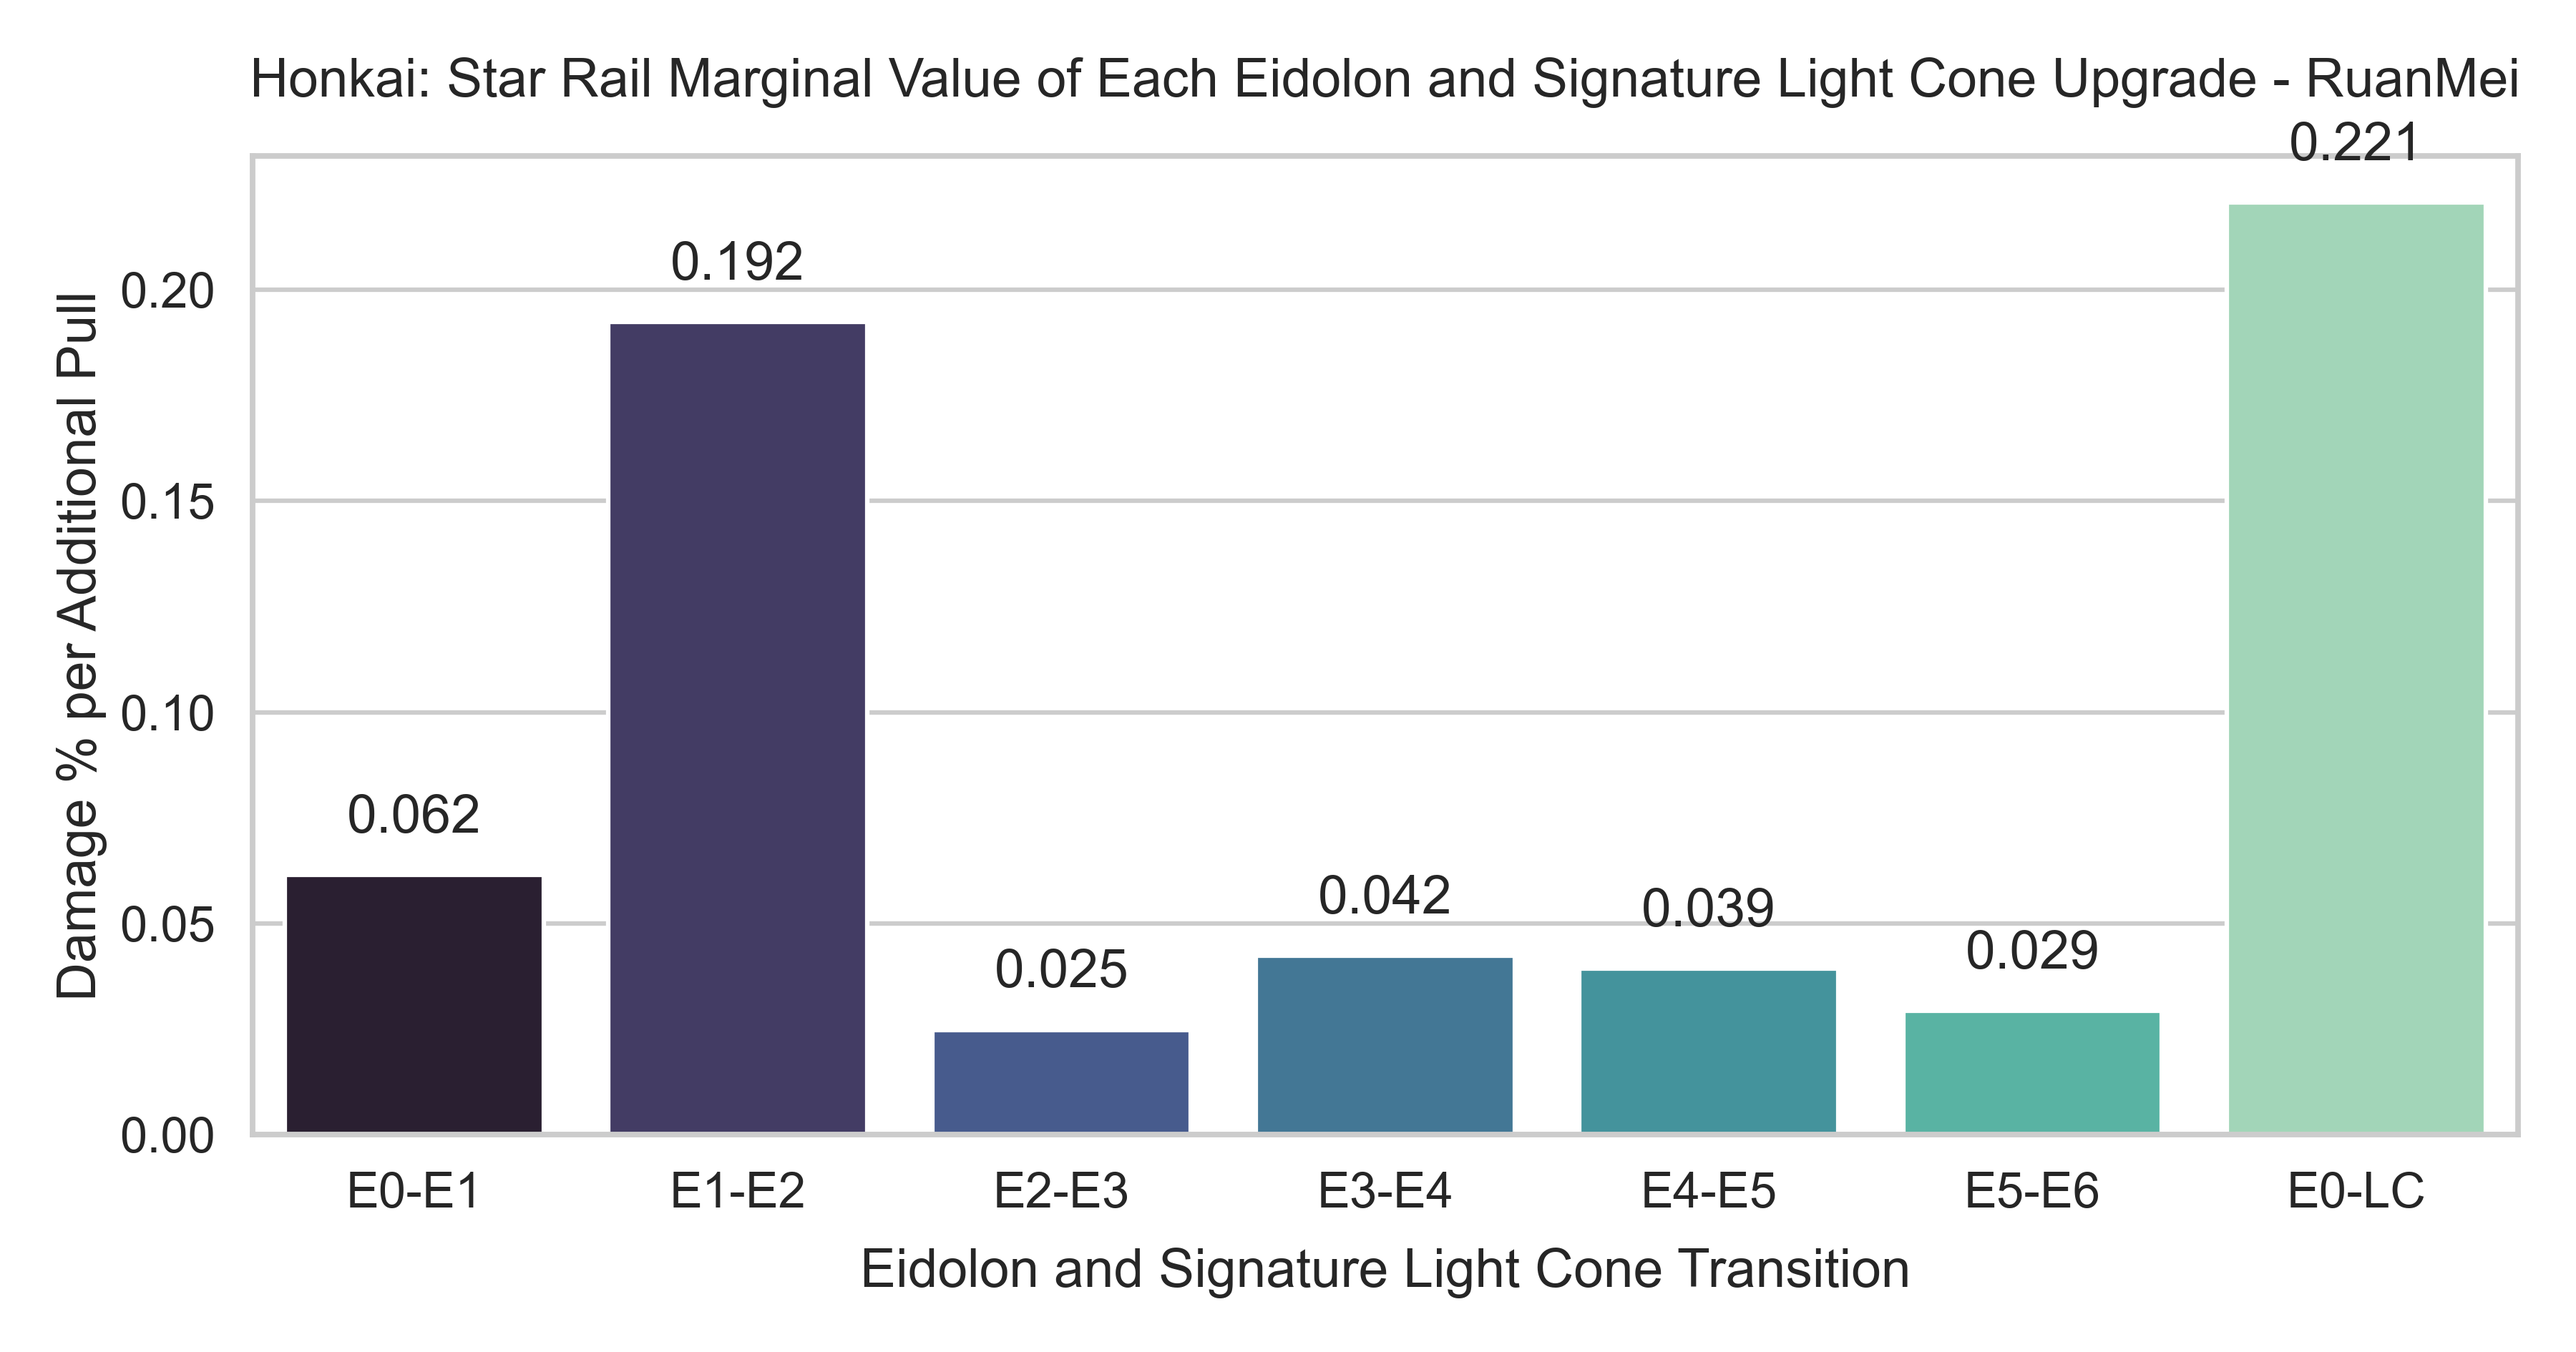
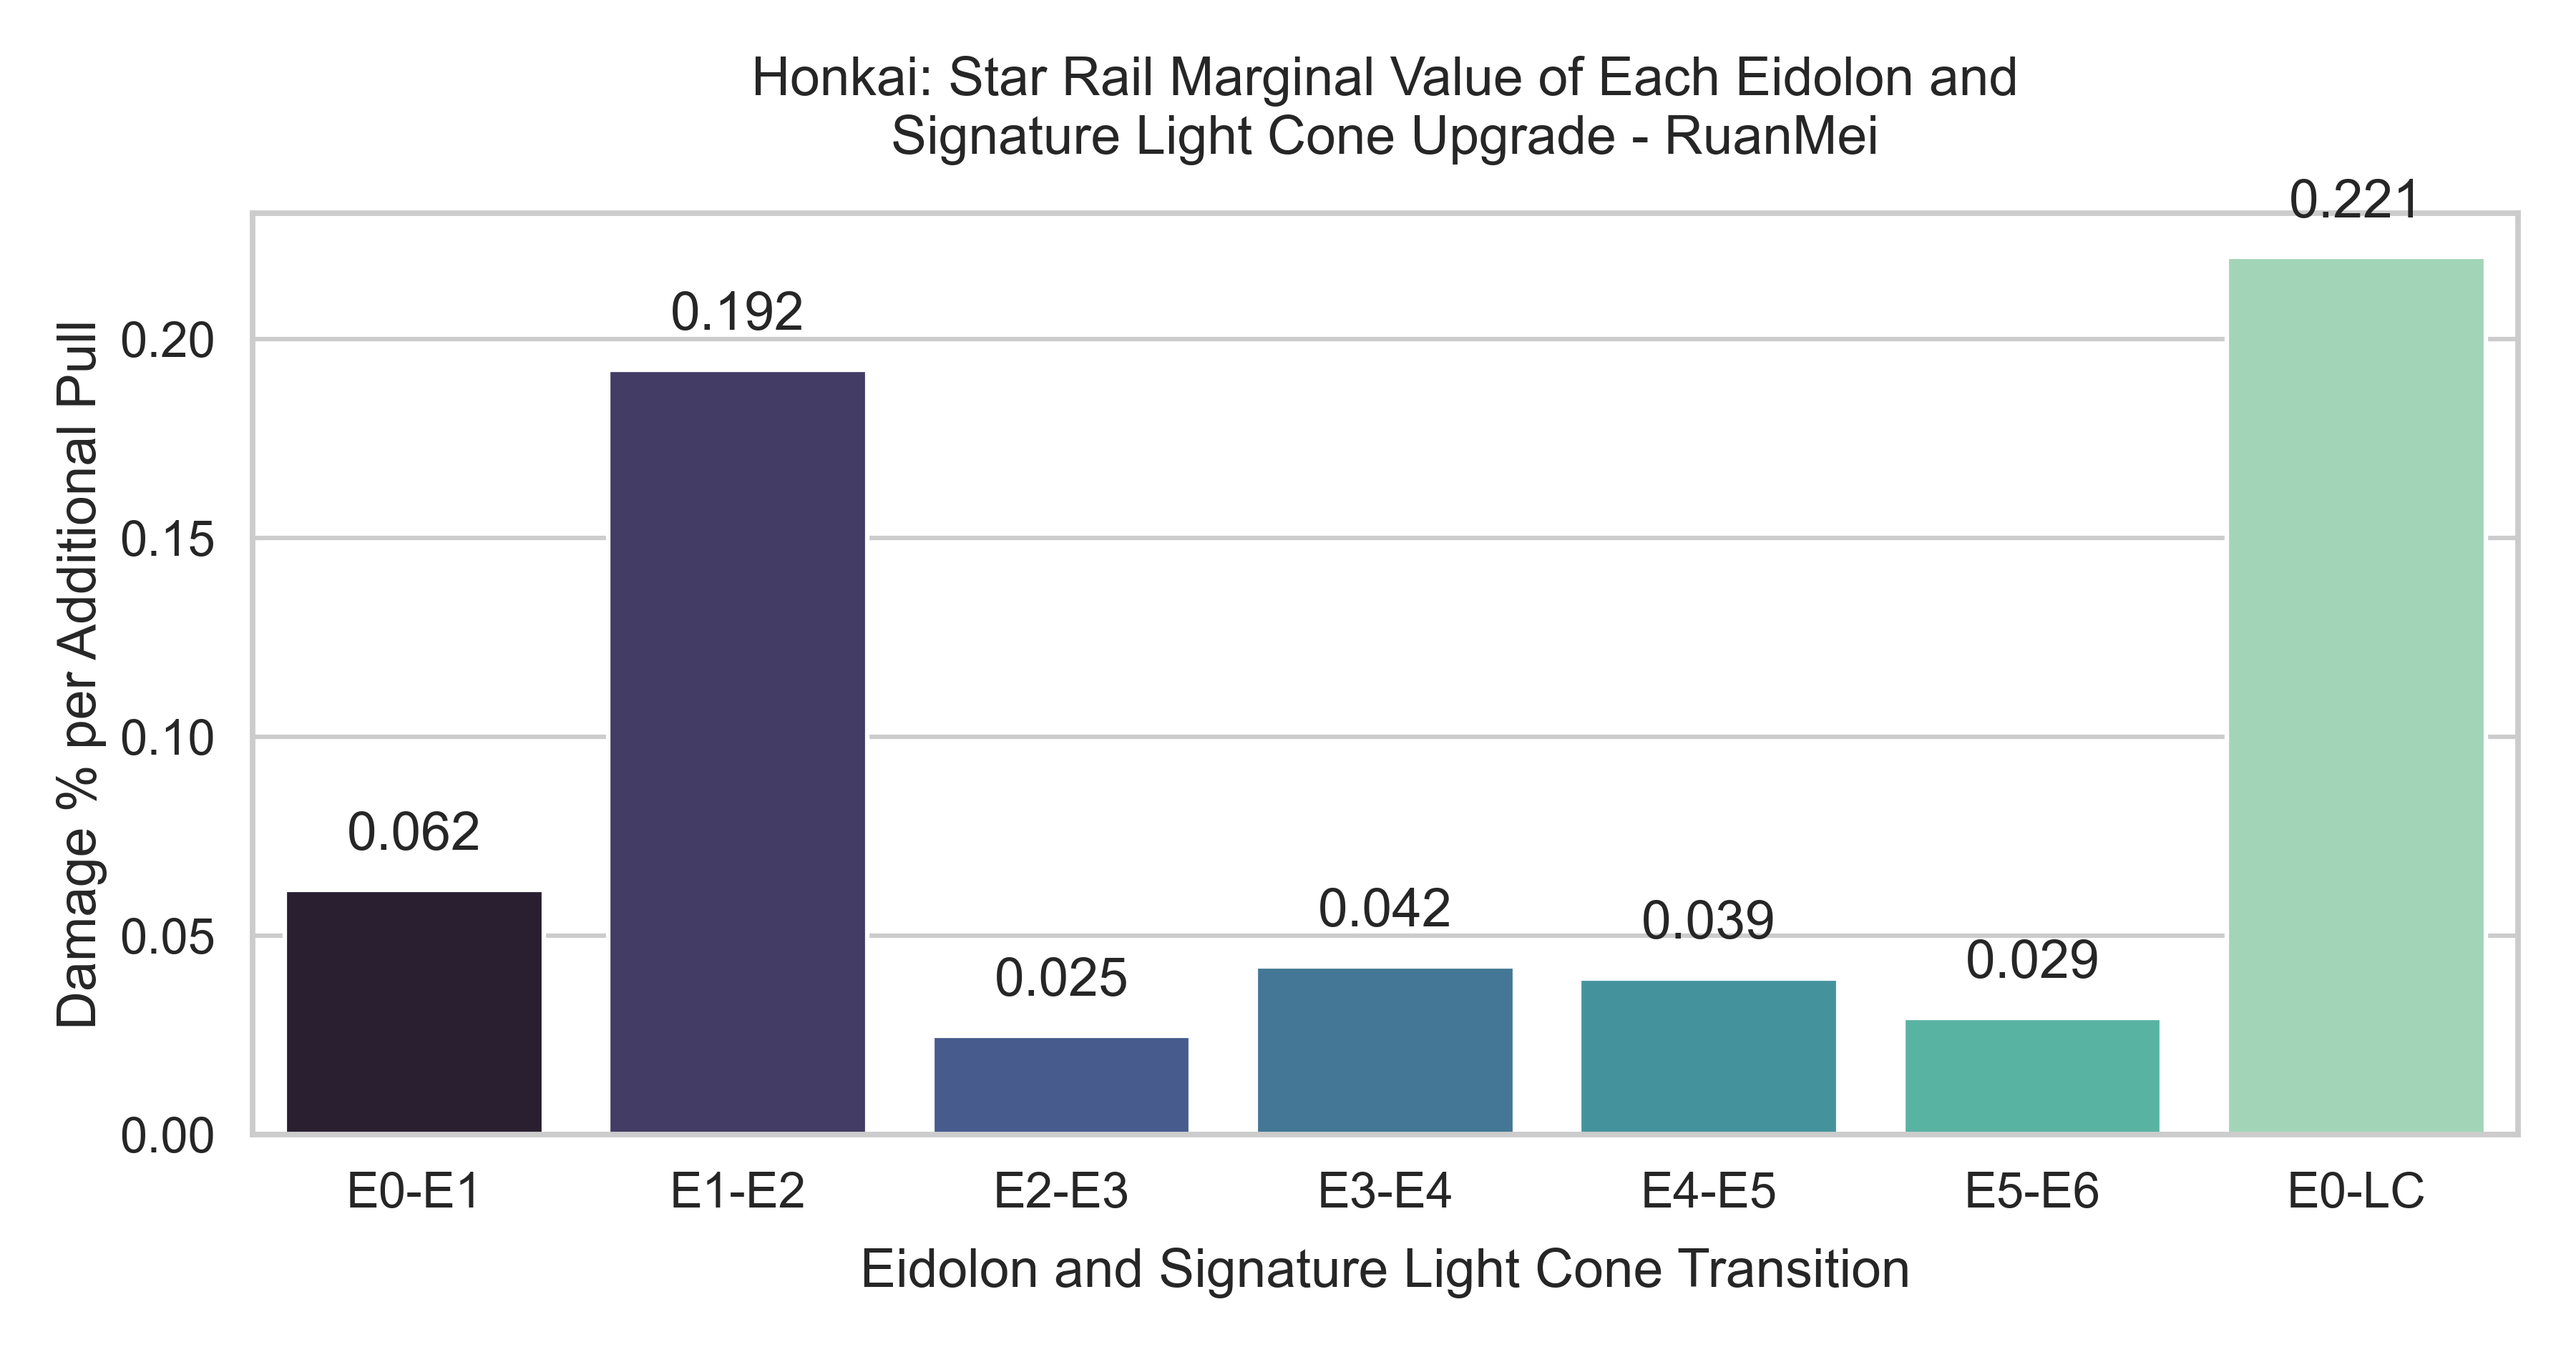
Update Ruan Mei visualizations: add dedicated character visuals documentation and improve plot title formatting for better readability.

diff --git a/calculator/plot_eidolon_value.py b/calculator/plot_eidolon_value.py
@@ -4,6 +4,7 @@ from numpy import pad
 import seaborn as sns
 import pandas as pd
 from pathlib import Path
+import textwrap
 
 
 def convert_simulation_data_to_avg_dmg(
@@ -145,14 +146,22 @@ def _create_barplot(
         title_suffix: Optional suffix to append to the title
         character_name: Optional name of the character being analyzed
     """
-    plt.figure(figsize=(12, 6.3))
+    plt.figure(figsize=(12, 6.3))    
     ax = plt.gca()
 
     sns.barplot(
         x=x_key, y=y_key, hue=x_key, data=data, palette=palette, legend=False, ax=ax
     )
 
-    ax.set_title(f"{title}{title_suffix}", pad=20)
+    # Wrap long titles to fit better on the plot
+    wrapped_title = "\n".join([line.strip() for line in textwrap.fill(
+        f"{title}{title_suffix}", 
+        width=60, 
+        break_long_words=False, 
+        break_on_hyphens=False
+    ).split("\n")])
+    
+    ax.set_title(wrapped_title, pad=20)
     ax.set_xlabel(xlabel, labelpad=10)
     ax.set_ylabel(ylabel)
 

diff --git a/README.md b/README.md
@@ -13,45 +13,7 @@ Eidolons in Honkai: Star Rail can significantly boost a character's combat perfo
 Data is based on:
 
 - <https://www.prydwen.gg/>
-
-## How It Works
-
-### Data Structure
-
-The analysis uses character data stored in JSON files under the `data/` directory. Each character file contains damage percentages for different Eidolon levels under various target scenarios (single-target, 3-target, 5-target).
-
-Example data format:
-
-```json
-{
-    "1-target": {
-        "dmg-percent": {
-            "E0": 100,
-            "E1": 123,
-            "E2": 169,
-            ...
-        }
-    },
-    "3-target": {
-        "dmg-percent": {
-            ...
-        }
-    }
-}
-```
-
-### Calculation Methodology
-
-1. **Average Damage Calculation**: For each Eidolon level, damage percentages are averaged across all target scenarios (1-target, 3-target, 5-target), with E0 normalized to 100%.
-
-2. **Pull Estimation**: The system estimates an average of 108 pulls per copy, taking into account:
-   - 50/50 chance to get the rate-up character
-   - Guarantee system (guaranteed rate-up character after losing a 50/50)
-   - Hard pity at 90 pulls
-
-3. **Damage per Pull**: Calculated by dividing the damage percentage by the cumulative number of pulls required.
-
-4. **Marginal Value**: Calculated as the additional damage gained per additional pull required when upgrading from one Eidolon level to the next.
+- <https://starrailstation.com/en>
 
 ## Generated Plots
 
@@ -65,11 +27,10 @@ For detailed explanations of each plot with examples, see [VISUALS.md](docs/VISU
 
 ## Usage
 
-1. Place character data in the `data/` directory in the correct JSON format
-2. Run the analysis:
+1. Run the analysis:
 
-```bash
-make run
-```
+    ```bash
+    make run
+    ```
 
-3. Generated plots will be saved to the `output/` directory
+2. Generated plots will be saved to the `output/` directory

diff --git a/docs/character_visuals/RUAN_MEI.md b/docs/character_visuals/RUAN_MEI.md
@@ -1,0 +1,15 @@
+[Back](../VISUALS.md)
+
+# Generated Plots: Ruan Mei
+
+## 1. Average Damage by Eidolon
+
+![Average Damage by Eidolon](../../output/RuanMei/RuanMei_avg_damage_by_eidolon.png)
+
+## 2. Damage per Pull Efficiency
+
+![Damage per Pull Efficiency](../../output/RuanMei/RuanMei_damage_per_pull.png)
+
+## 3. Marginal Value of Each Eidolon
+
+![Marginal Value of Each Eidolon](../../output/RuanMei/RuanMei_marginal_value.png)

diff --git a/docs/VISUALS.md b/docs/VISUALS.md
@@ -9,6 +9,7 @@ This document provides detailed information about the visualizations generated b
 ### Characters
 
 - [Castorice](./character_visuals/CASTORICE.md)
+- [Ruan Mei](./character_visuals/RUAN_MEI.md)
 
 ## Plots Explaination
 
